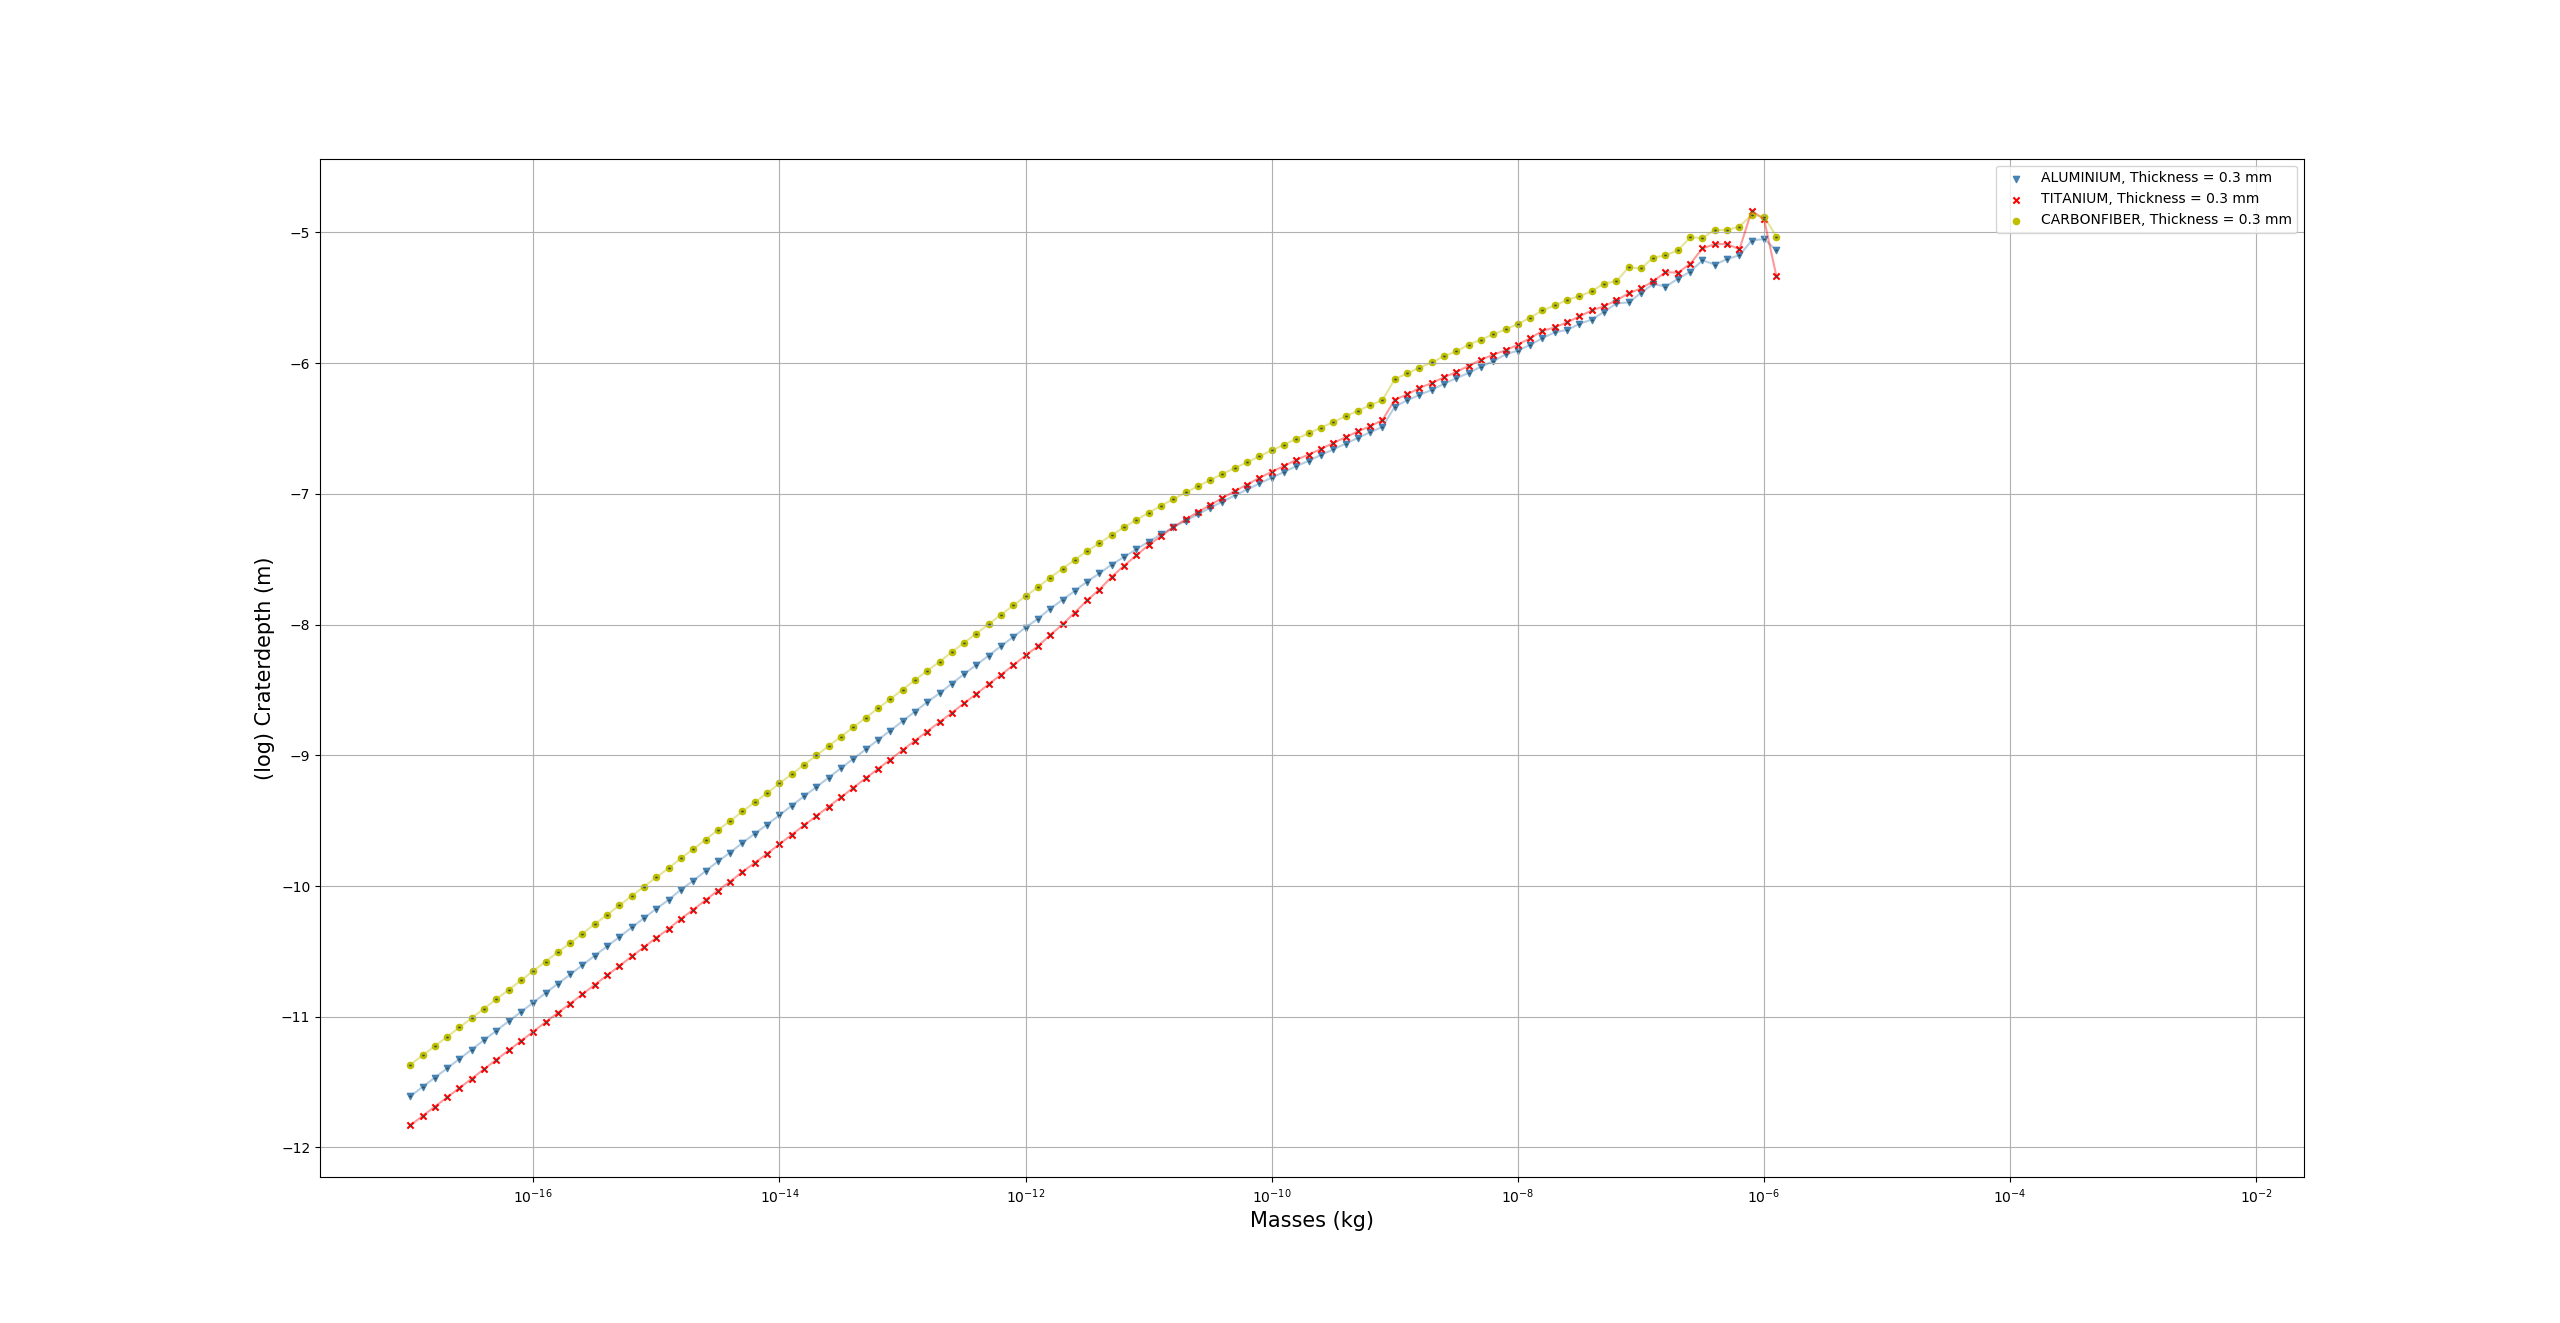
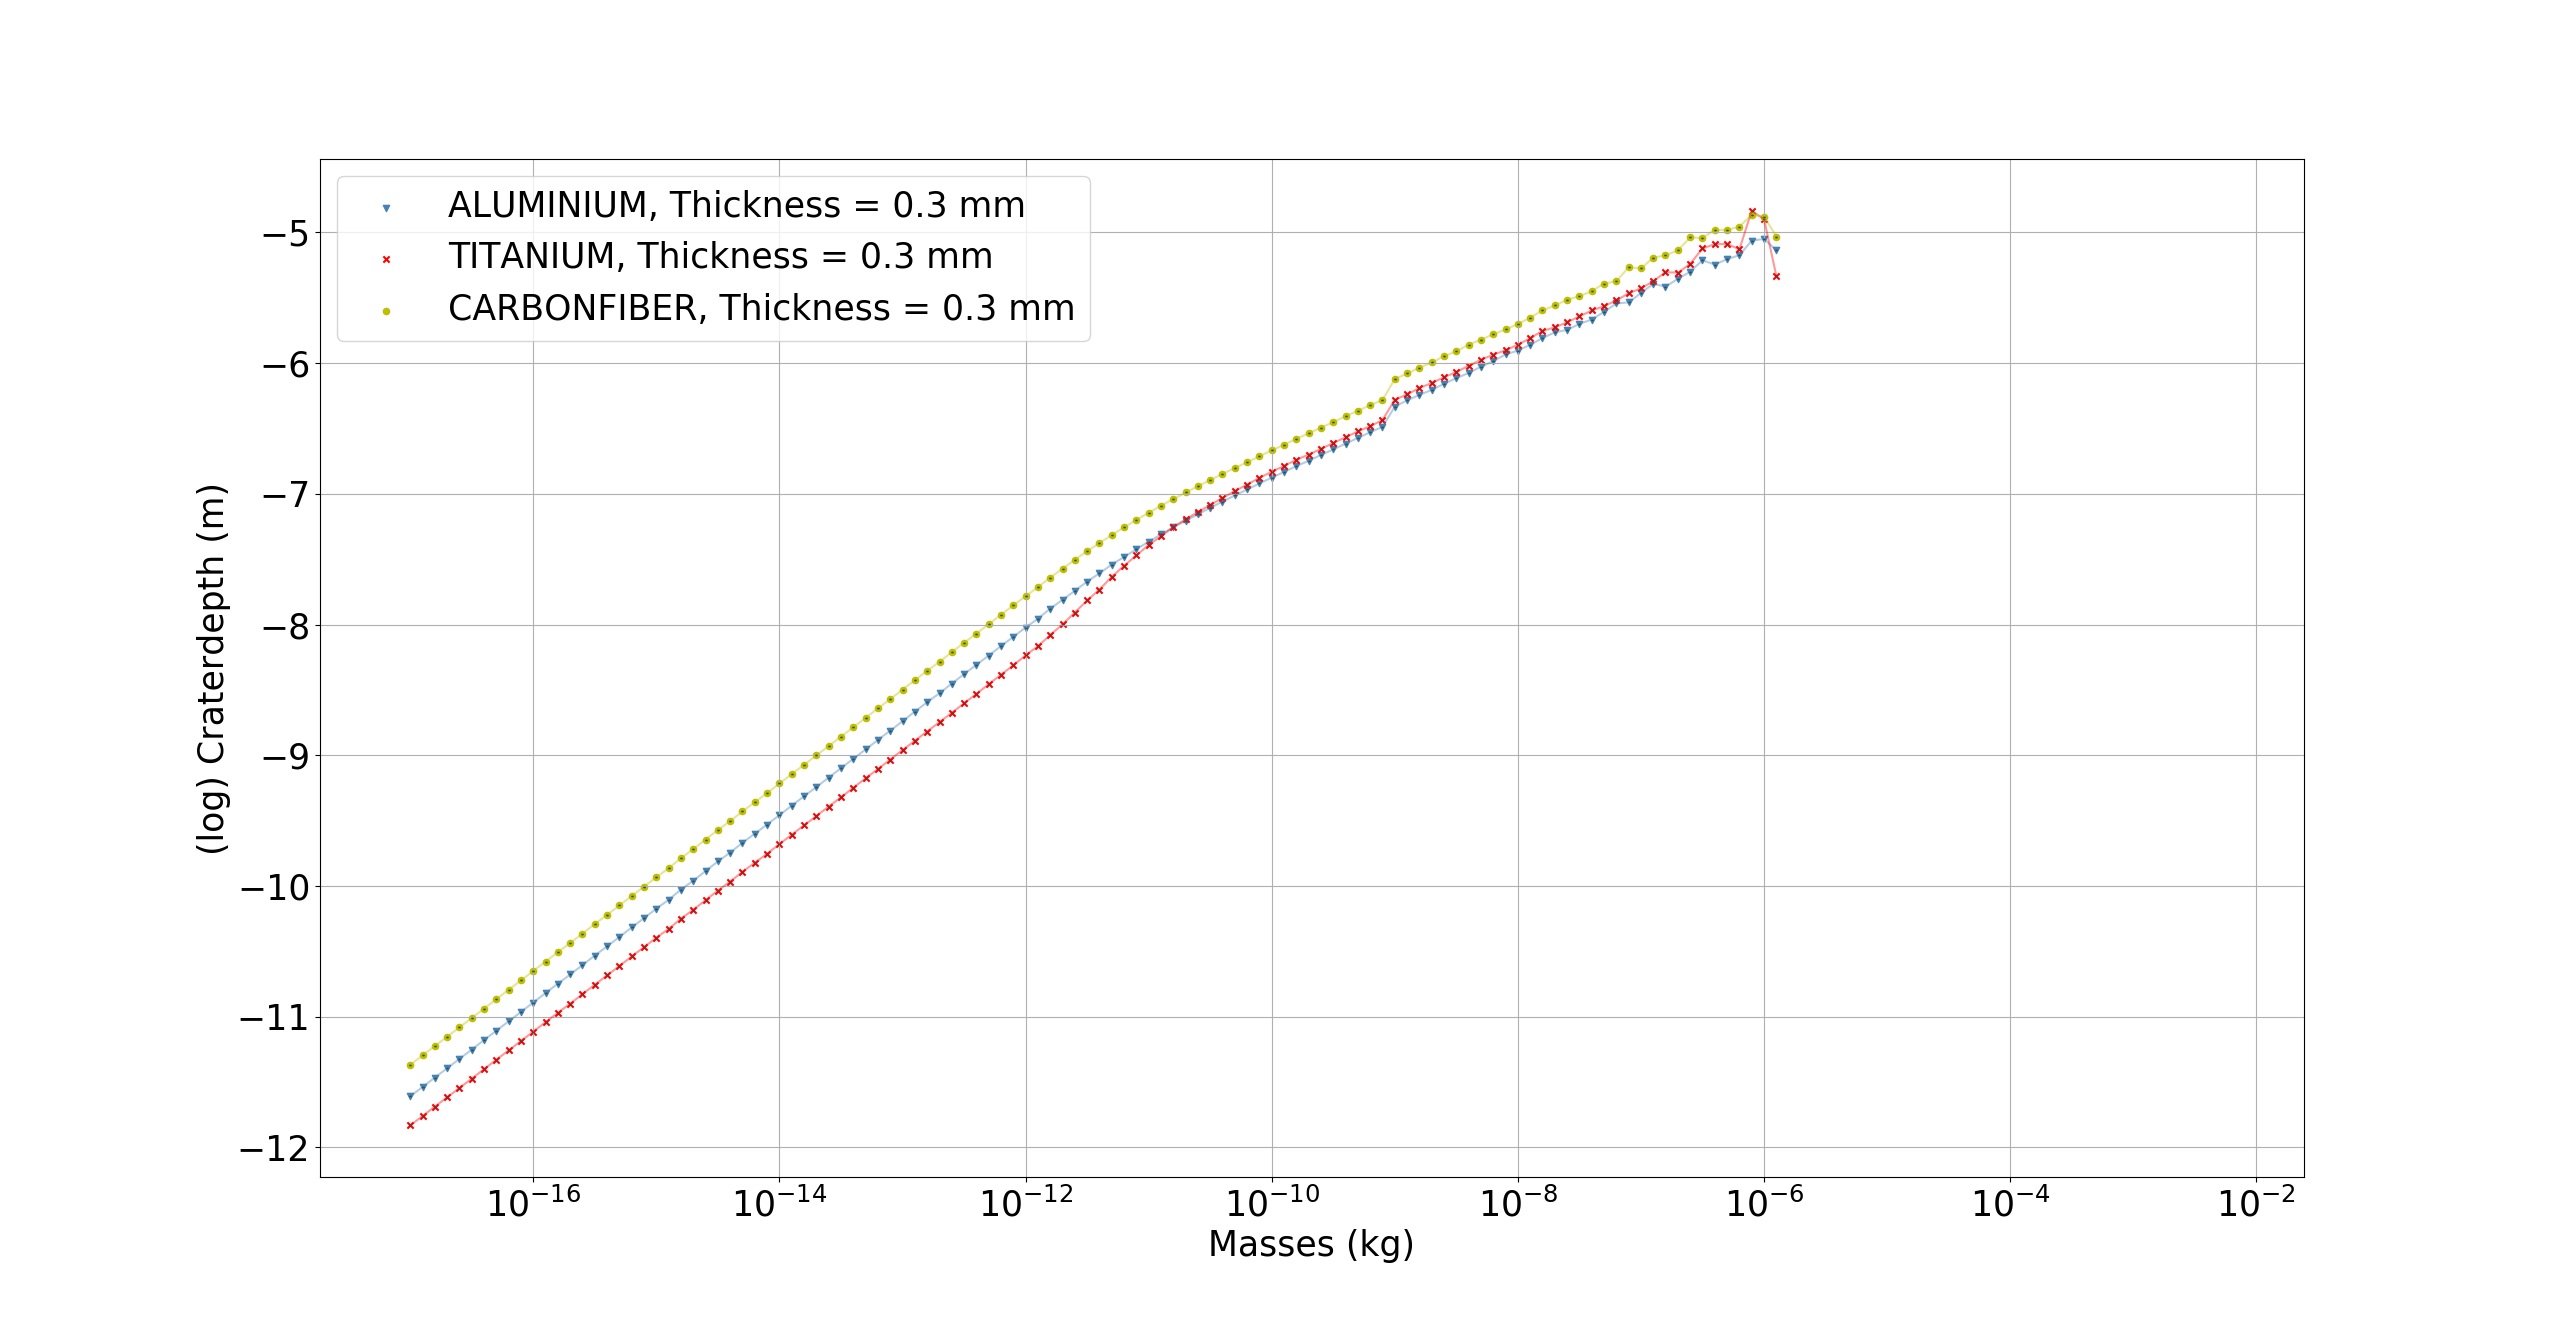
Last commit

diff --git a/multiplot.py b/multiplot.py
@@ -16,7 +16,7 @@ diameters = [diameter * 0.01 for diameter in environment.getDiameters()][0:112] 
 densities = [density * 1000 for density in environment.getDensities()][0:112]   # gives densities in kg/m^-3
 # Give specifications of the run
 N = 20000
-materialType = 'ALUMINIUM' # CARBONFIBER / TITANIUM / ALUMINIUM
+materialType = 'CARBONFIBER' # CARBONFIBER / TITANIUM / ALUMINIUM
 
 # Get name where file is based
 thickness1 = 0.3
@@ -52,20 +52,7 @@ A_tot3, Perf_tot3, Perf_area3 = dataPerRun3["A_tot"], dataPerRun3["Perf_tot"], d
 
 #crater profile
 
-depth_i, depth_f = [-3, -8]
-CRAT_PROFILE = []
-Depths = 10**np.linspace(depth_i,depth_f,1000)
-for depth in Depths:
-    i=0
-    areaDamage = 0
-    for craterDepth in CRAT_MEAN1:
-        if craterDepth > depth:
-            areaDamage = areaDamage + AA_MEAN1[i]
-        i+=1
 
-    if thickness1*10**-3 > depth:
-        areaDamage = areaDamage + np.mean(Perf_area1)
-    CRAT_PROFILE.append(areaDamage)
 
 #table
 A_MEAN1 = np.mean(A_tot1)
@@ -73,19 +60,53 @@ A_STD1 = np.std(A_tot1)
 perf_MEAN1 = np.mean(Perf_tot1)
 perf_STD1 = np.std(Perf_tot1)
 
+Crater_area1 = A_tot1-Perf_area1
+craterVolumes1 = [(3/8)*Crater_area1[i]*diameters[i]/2 for i in range(len(diameters))]
+perfVolumes1 = [Perf_area1[i]*thickness1*10**-3 for i in range(len(diameters))]
+CraterEjecta1 = sum(craterVolumes1)
+PerfEjecta1 = sum(perfVolumes1)
+VER1 = CraterEjecta1 + PerfEjecta1
+
 A_MEAN2 = np.mean(A_tot2)
 A_STD2 = np.std(A_tot2)
 perf_MEAN2 = np.mean(Perf_tot2)
 perf_STD2 = np.std(Perf_tot2)
+
+Crater_area2 = A_tot2-Perf_area2
+craterVolumes2 = [(3/8)*Crater_area2[i]*diameters[i]/2 for i in range(len(diameters))]
+perfVolumes2 = [Perf_area2[i]*thickness2*10**-3 for i in range(len(diameters))]
+CraterEjecta2 = sum(craterVolumes2)
+PerfEjecta2 = sum(perfVolumes2)
+VER2 = CraterEjecta2 + PerfEjecta2
 
 A_MEAN3 = np.mean(A_tot3)
 A_STD3 = np.std(A_tot3)
 perf_MEAN3 = np.mean(Perf_tot3)
 perf_STD3 = np.std(Perf_tot3)
 
+Crater_area3 = A_tot3-Perf_area3
+craterVolumes3 = [(3/8)*Crater_area3[i]*diameters[i]/2 for i in range(len(diameters))]
+perfVolumes3 = [Perf_area3[i]*thickness3*10**-3 for i in range(len(diameters))]
+CraterEjecta3 = sum(craterVolumes3)
+PerfEjecta3 = sum(perfVolumes3)
+VER3 = CraterEjecta3 + PerfEjecta3
+
 print(r'Total damage = ${} \pm {}$'.format(A_MEAN1, A_STD1))
 print(r'Perforations = ${} \pm {}$'.format(perf_MEAN1, perf_STD1))
 print(r'Perforation Area = ${} \pm {}$'.format(np.mean(Perf_area1), np.std(Perf_area1)))
+print(r'Crater Area = ${} \pm {}$'.format(Crater_area1,0))
+print(r'Crater VER = ${} \pm {}$'.format(CraterEjecta1,0))
+print(r'Perforation VER = ${} \pm {}$'.format(PerfEjecta1,0))
+print(r'Total VER = ${} \pm {}$'.format(VER1,0))
+
+print(r'Crater VER = ${} \pm {}$'.format(CraterEjecta2,0))
+print(r'Perforation VER = ${} \pm {}$'.format(PerfEjecta2,0))
+print(r'Total VER = ${} \pm {}$'.format(VER2,0))
+
+print(r'Crater VER = ${} \pm {}$'.format(CraterEjecta3,0))
+print(r'Perforation VER = ${} \pm {}$'.format(PerfEjecta3,0))
+print(r'Total VER = ${} \pm {}$'.format(VER3,0))
+
 
 Materials = [materialType,materialType,materialType]
 Thickness = [thickness1,thickness2,thickness3]
@@ -95,7 +116,7 @@ TotFADR = [str(round(A_MEAN1,8))+'(pm '+str(round(A_STD1,8))+')',str(round(A_MEA
 
 
 df = pd.DataFrame(dict(Materials=Materials,Thickness=Thickness, Perforations=Perforations, Perforation_FADR = PerfFADR, Total_FADR = TotFADR))
-print(df.to_latex(index=False))
+#print(df.to_latex(index=False))
 
 
 # Define plotting choices
@@ -116,15 +137,15 @@ plt.rc('ytick',labelsize=size)
 def Plot_AA_MEAN():
     figAA_MEAN, ax = plt.subplots()
 
-    ax.scatter(np.log10(masses), AA_MEAN1, s=20, color='steelblue', marker="v", label='{}, Thickness = {} mm'.format('TITANIUM', 0.3))
+    ax.scatter(np.log10(masses), AA_MEAN1, s=20, color='steelblue', marker="v", label='{}, Thickness = {} mm'.format('ALUMINIUM', 1.0))
     ax.plot(np.log10(masses), AA_MEAN1, color='steelblue',alpha=0.4)
     #ax.errorbar(np.log10(masses), AA_MEAN1, yerr = AA_STD1, ecolor=errorColor, elinewidth=errorThickness, capsize=errorCapsize, fmt='none', marker="none")
 
-    ax.scatter(np.log10(masses), AA_MEAN2, s=20, color="r",marker='x', label='{}, Thickness = {} mm'.format('TITANIUM', 0.6))
+    ax.scatter(np.log10(masses), AA_MEAN2, s=20, color="r",marker='x', label='{}, Thickness = {} mm'.format('TITANIUM', 1.0))
     ax.plot(np.log10(masses), AA_MEAN2, color='r',alpha=0.4)
     #ax.errorbar(np.log10(masses), AA_MEAN2, yerr = AA_STD2, ecolor=errorColor, elinewidth=errorThickness, capsize=errorCapsize, fmt='none', marker="none")
 
-    ax.scatter(np.log10(masses), AA_MEAN3, s=20, color="y", label='{}, Thickness = {} mm'.format('TITANIUM', 1.0))
+    ax.scatter(np.log10(masses), AA_MEAN3, s=20, color="y", label='{}, Thickness = {} mm'.format('CARBONFIBER', 1.0))
     ax.plot(np.log10(masses), AA_MEAN3, color='y',alpha=0.4)
     ax.errorbar(np.log10(masses), AA_MEAN3, yerr = AA_STD3, ecolor=errorColor, elinewidth=errorThickness, capsize=errorCapsize, fmt='none', marker="none")
     plt.ylim(0,8*10**-7)
@@ -138,24 +159,24 @@ def Plot_AA_MEAN():
 def Plot_CRAT_MEAN():
     figCRAT_MEAN, ax = plt.subplots()
 
-    ax.scatter(masses, np.log10(CRAT_MEAN1), s=20, color='steelblue', marker="v", label='{}, Thickness = {} mm'.format('TITANIUM', 0.3))
+    ax.scatter(masses, np.log10(CRAT_MEAN1), s=20, color='steelblue', marker="v", label='{}, Thickness = {} mm'.format('ALUMINIUM', 1.0))
     ax.plot(masses, np.log10(CRAT_MEAN1), color='steelblue',alpha=0.4)
     ax.errorbar(masses, np.log10(CRAT_MEAN1), yerr = CRAT_STD1, ecolor=errorColor, elinewidth=errorThickness, capsize=errorCapsize, fmt='none', marker="none")
 
-    ax.scatter(masses, np.log10(CRAT_MEAN2), s=20, color='r', marker="x", label='{}, Thickness = {} mm'.format('TITANIUM', 0.6))
+    ax.scatter(masses, np.log10(CRAT_MEAN2), s=20, color='r', marker="x", label='{}, Thickness = {} mm'.format('TITANIUM', 1.0))
     ax.plot(masses, np.log10(CRAT_MEAN2), color='r',alpha=0.4)
     ax.errorbar(masses, np.log10(CRAT_MEAN2), yerr = CRAT_STD2, ecolor=errorColor, elinewidth=errorThickness, capsize=errorCapsize, fmt='none', marker="none")
 
-    ax.scatter(masses, np.log10(CRAT_MEAN3), s=20, color='y', label='{}, Thickness = {} mm'.format('TITANIUM', 1.0))
+    ax.scatter(masses, np.log10(CRAT_MEAN3), s=20, color='y', label='{}, Thickness = {} mm'.format('CARBONFIBER', 1.0))
     ax.plot(masses, np.log10(CRAT_MEAN3), color='y',alpha=0.4)
     ax.errorbar(masses, np.log10(CRAT_MEAN3), yerr = CRAT_STD3, ecolor=errorColor, elinewidth=errorThickness, capsize=errorCapsize, fmt='none', marker="none")
 
 
-    ax.set_xlabel('Masses (kg)', size= 15)
-    ax.set_ylabel('(log) Craterdepth (m)', size= 15)
+    ax.set_xlabel('Masses (kg)', size= size)
+    ax.set_ylabel('(log) Craterdepth (m)', size= size)
     ax.set_xscale('log')
     ax.grid()
-    ax.legend(fontsize= 10, prop={'size': 6})
+    ax.legend(fontsize= size)
 
 # Craterdepth profile
 def Plot_CRAT_PROFILE():
@@ -203,7 +224,7 @@ def Plot_Flux():
 
 Plot_AA_MEAN()
 Plot_CRAT_MEAN()
-Plot_CRAT_PROFILE()
+#Plot_CRAT_PROFILE()
 #Plot_Order_of_magnitude_picture()
 #Plot_Flux()
 

diff --git a/models/DamageModel.py b/models/DamageModel.py
@@ -26,6 +26,7 @@ class DamageModel:
         self.densities = [density * 1000 for density in environment.getDensities()]  # gives densities in kg/m^-3
 
 
+
     def createDictionaries(self, spacecraft):
         criticalDiameterDictionary = dict()
         for velocity in self.velocities:
@@ -71,16 +72,16 @@ class DamageModel:
                                                         density) / 2) ** 2  # the area a particle of mass m and velocity v would damage
                     A = A + A_perf
 
-                    perforationsArea.append(A_perf)
+                    #perforationsArea.append(A_perf)
                     perforations += 1
-                    CRATERDEPTH[i].append(spacecraft.getThickness())
-                    binCounter[i].append(A_perf)
+                    #CRATERDEPTH[i].append(spacecraft.getThickness())
+                    #binCounter[i].append(A_perf)
                 else:
                     conchoidal = self.diameterConchoidal(spacecraft.getMaterial(), density, diameter, velocity)
                     diameterCrater = self.diameterCrater(spacecraft.getMaterial(), density, diameter, velocity)
-                    CRATERDEPTH.append(diameterCrater / 2)
+                    #CRATERDEPTH.append(diameterCrater / 2)
                     A_conch = np.pi * (conchoidal / 2) ** 2
-                    A = A + A_conch
+                    #A = A + A_conch
                     binCounter[i].append(A_conch)
             AA.append(A)
             i=i+1

diff --git a/DataPlotter.py b/DataPlotter.py
@@ -17,7 +17,7 @@ densities = [density * 1000 for density in environment.getDensities()][0:112]   
 # Give specifications of the run
 N = 10000
 materialType = 'ALUMINIUM' # CARBONFIBER / TITANIUM / ALUMINIUM
-thickness = 0.3 # milimeter
+thickness = 1.0 # milimeter
 
 
 # Get name where file is based

diff --git a/Main.py b/Main.py
@@ -10,7 +10,7 @@ import multiprocessing
 from numba import jit,cuda
 
 # Specify variables for the run
-N = 20000
+N = 10000
 environment = Environment("models/spenvisdata.csv")
 spacecraft = Spacecraft(MATERIAL.ALUMINIUM, 0.0010, environment)
 
